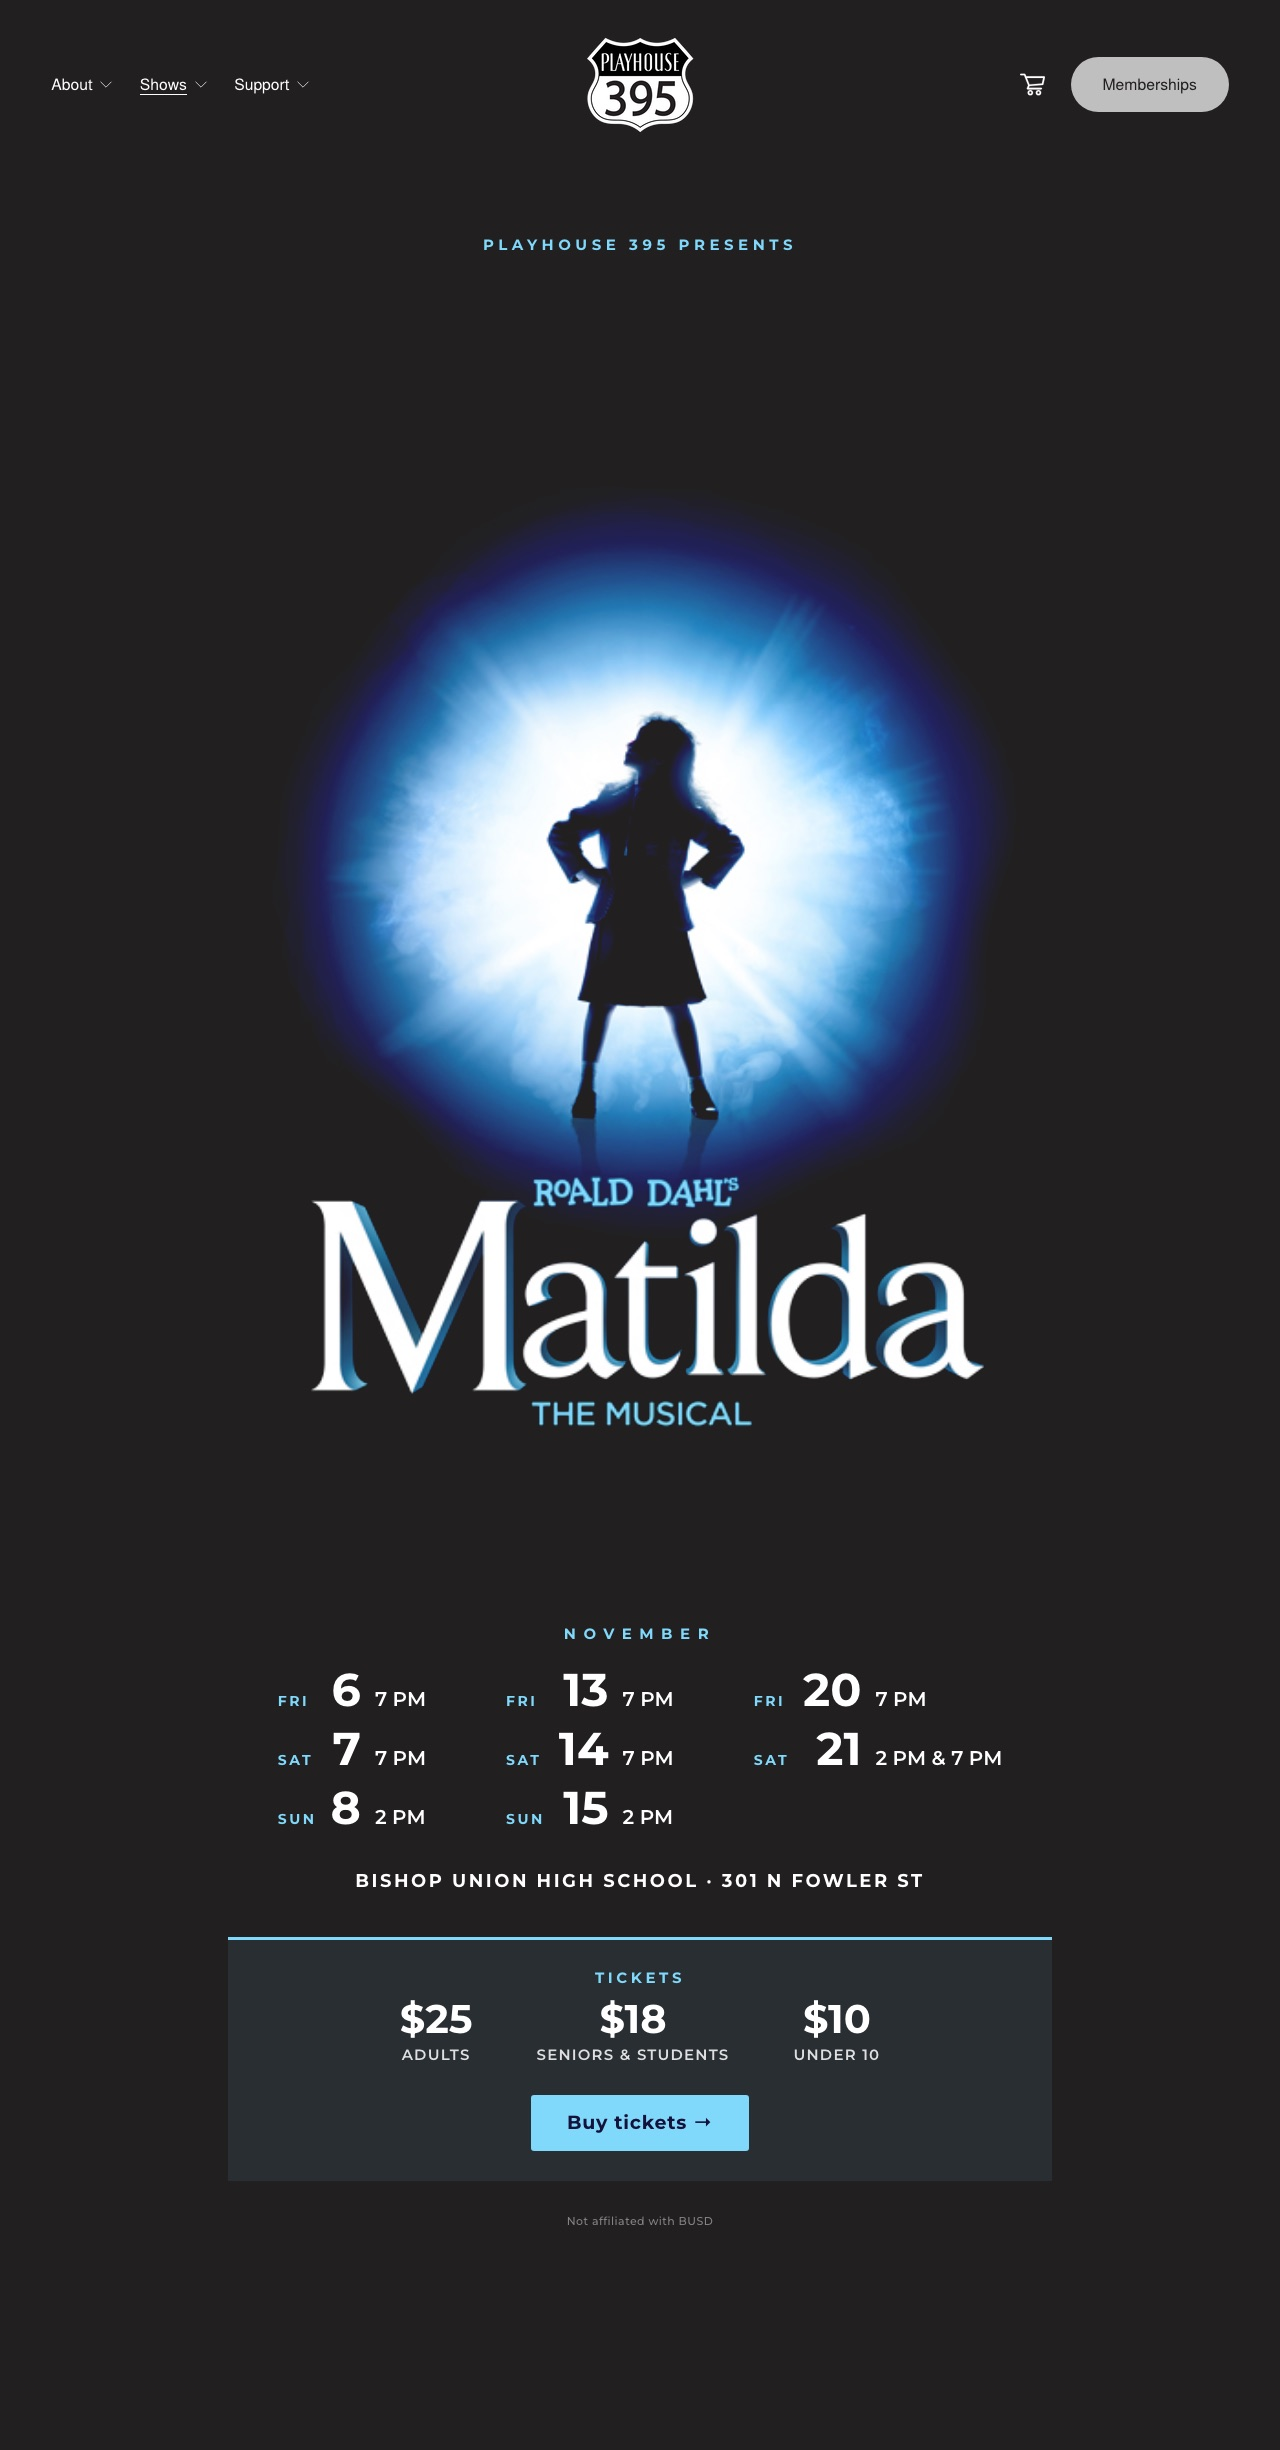
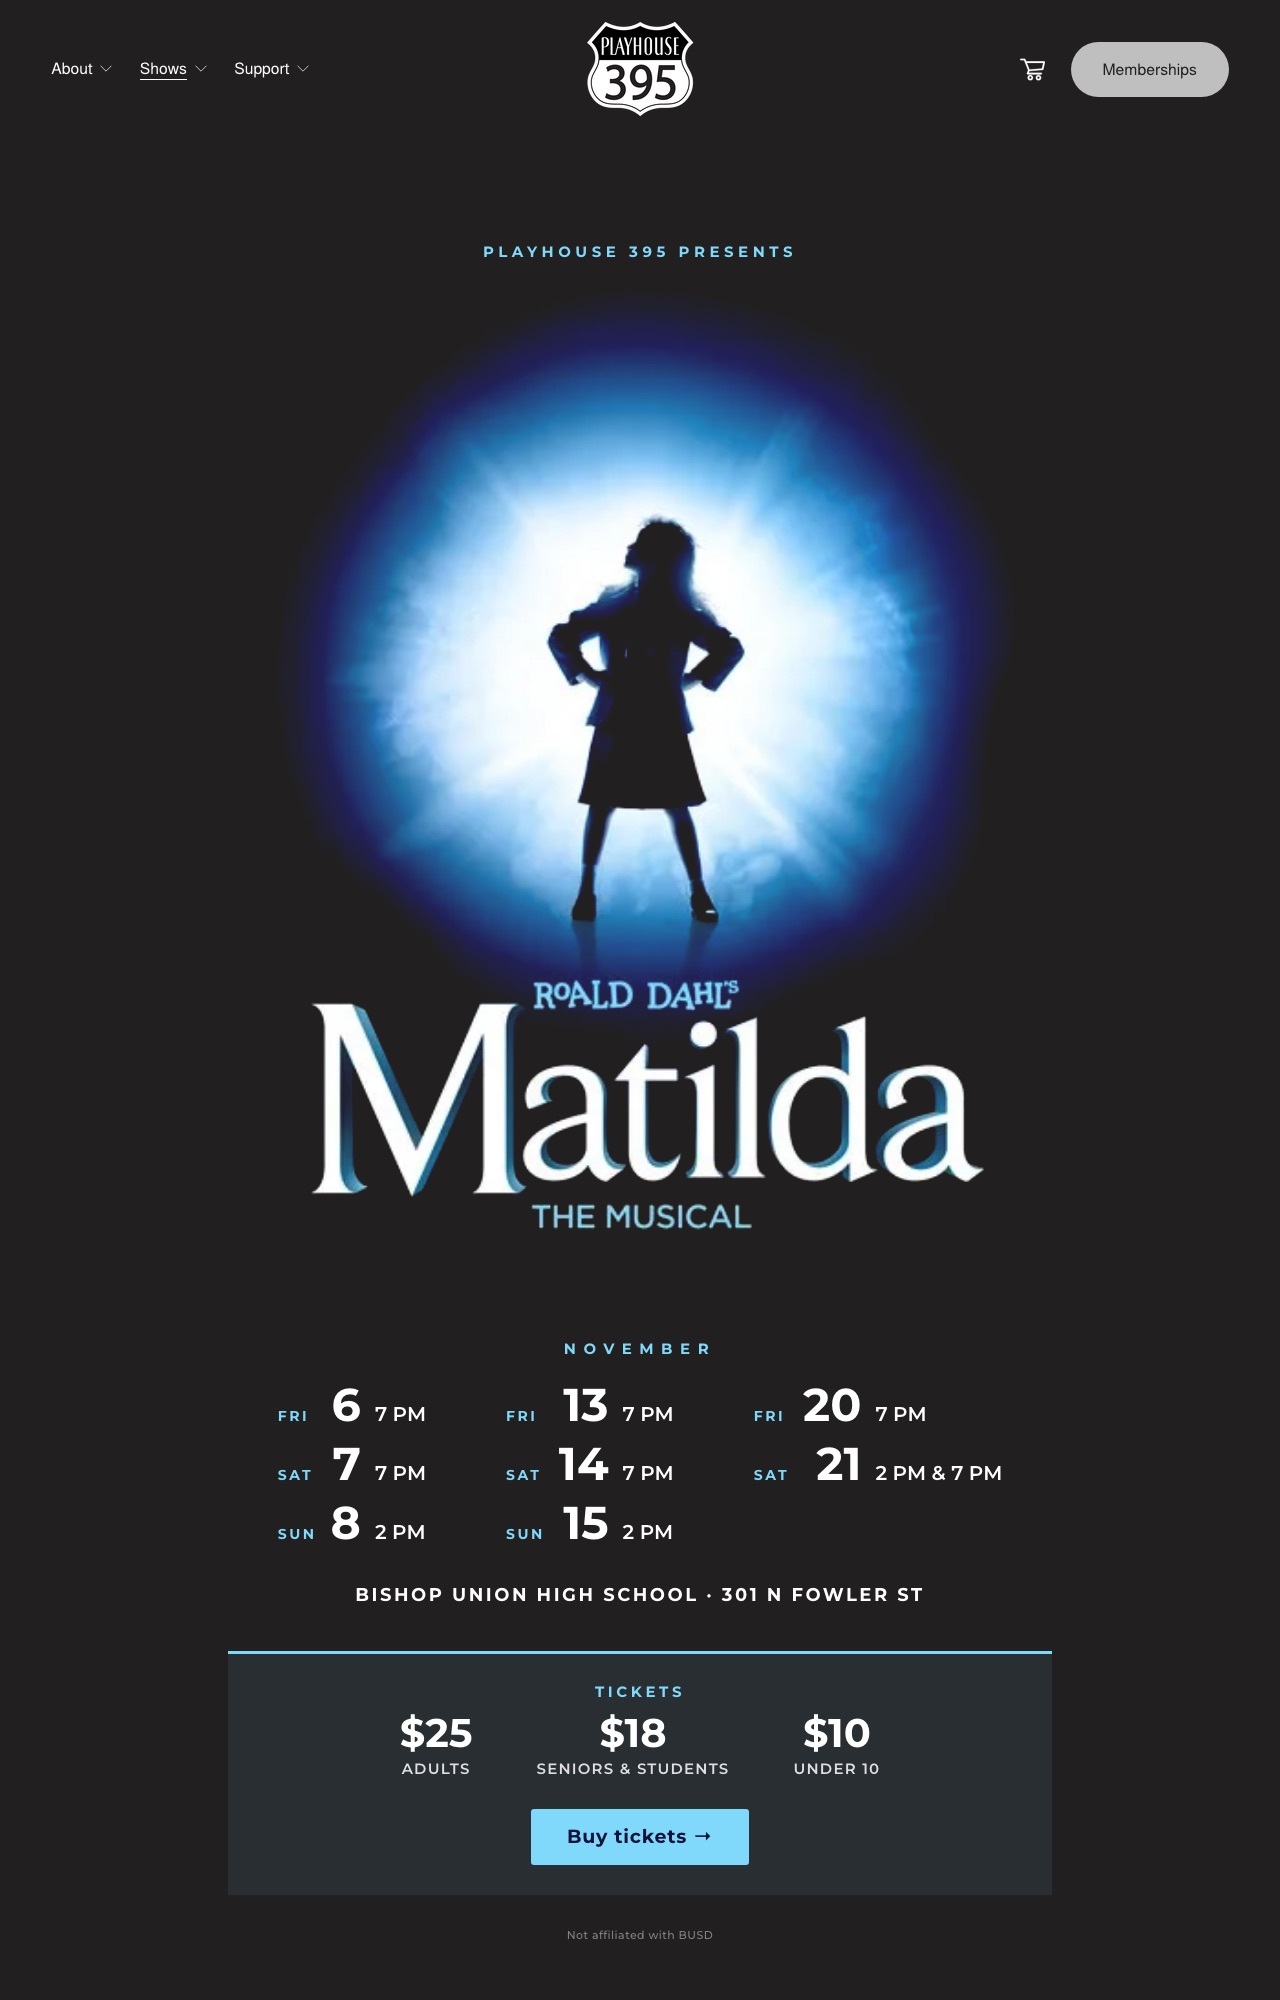
playhouse-395: the Matilda page is live
The Matilda page shots are now screenshots of the real page at
playhouse395.com/matilda, captioned as live, on the publicity page and in the
playbook.

diff --git a/src/web/public/work/playhouse-395/matilda-publicity/index.html b/src/web/public/work/playhouse-395/matilda-publicity/index.html
@@ -200,12 +200,12 @@
     </div>
     <div class="withphone">
       <figure>
-        <a href="img/matilda-proposed.jpg"><img src="img/matilda-proposed.jpg" alt="The new Matilda page on a computer" width="1280" height="2450"></a>
-        <figcaption>New, on a computer</figcaption>
+        <a href="img/matilda-proposed.jpg"><img src="img/matilda-proposed.jpg" alt="The Matilda page, live, on a computer" width="1280" height="2000"></a>
+        <figcaption>Live now, on a computer</figcaption>
       </figure>
       <figure class="phone">
-        <a href="img/matilda-proposed-phone.jpg"><img src="img/matilda-proposed-phone.jpg" alt="The new Matilda page on a phone" width="500" height="1560"></a>
-        <figcaption>New, on a phone</figcaption>
+        <a href="img/matilda-proposed-phone.jpg"><img src="img/matilda-proposed-phone.jpg" alt="The Matilda page, live, on a phone" width="500" height="1550"></a>
+        <figcaption>Live now, on a phone</figcaption>
       </figure>
     </div>
     <ul class="notes">

diff --git a/src/web/public/work/playhouse-395/show-playbook/index.html b/src/web/public/work/playhouse-395/show-playbook/index.html
@@ -256,7 +256,7 @@
         <div class="thumbs">
           <figure><a href="img/flyer.jpg"><img src="img/flyer.jpg" alt="Matilda flyer" width="900" height="1164" loading="lazy"></a><figcaption>The flyer</figcaption></figure>
           <figure class="wide"><a href="img/home-card.jpg"><img src="img/home-card.jpg" alt="The homepage with the Matilda card" width="1280" height="1100" loading="lazy"></a><figcaption>The homepage card</figcaption></figure>
-          <figure style="width:9rem"><a href="img/show-page-phone.jpg"><img src="img/show-page-phone.jpg" alt="The Matilda page on a phone" width="500" height="1560" loading="lazy"></a><figcaption>The show&rsquo;s page on a phone</figcaption></figure>
+          <figure style="width:9rem"><a href="img/show-page-phone.jpg"><img src="img/show-page-phone.jpg" alt="The Matilda page on a phone" width="500" height="1550" loading="lazy"></a><figcaption>The show&rsquo;s page on a phone</figcaption></figure>
         </div>
       </div>
 
